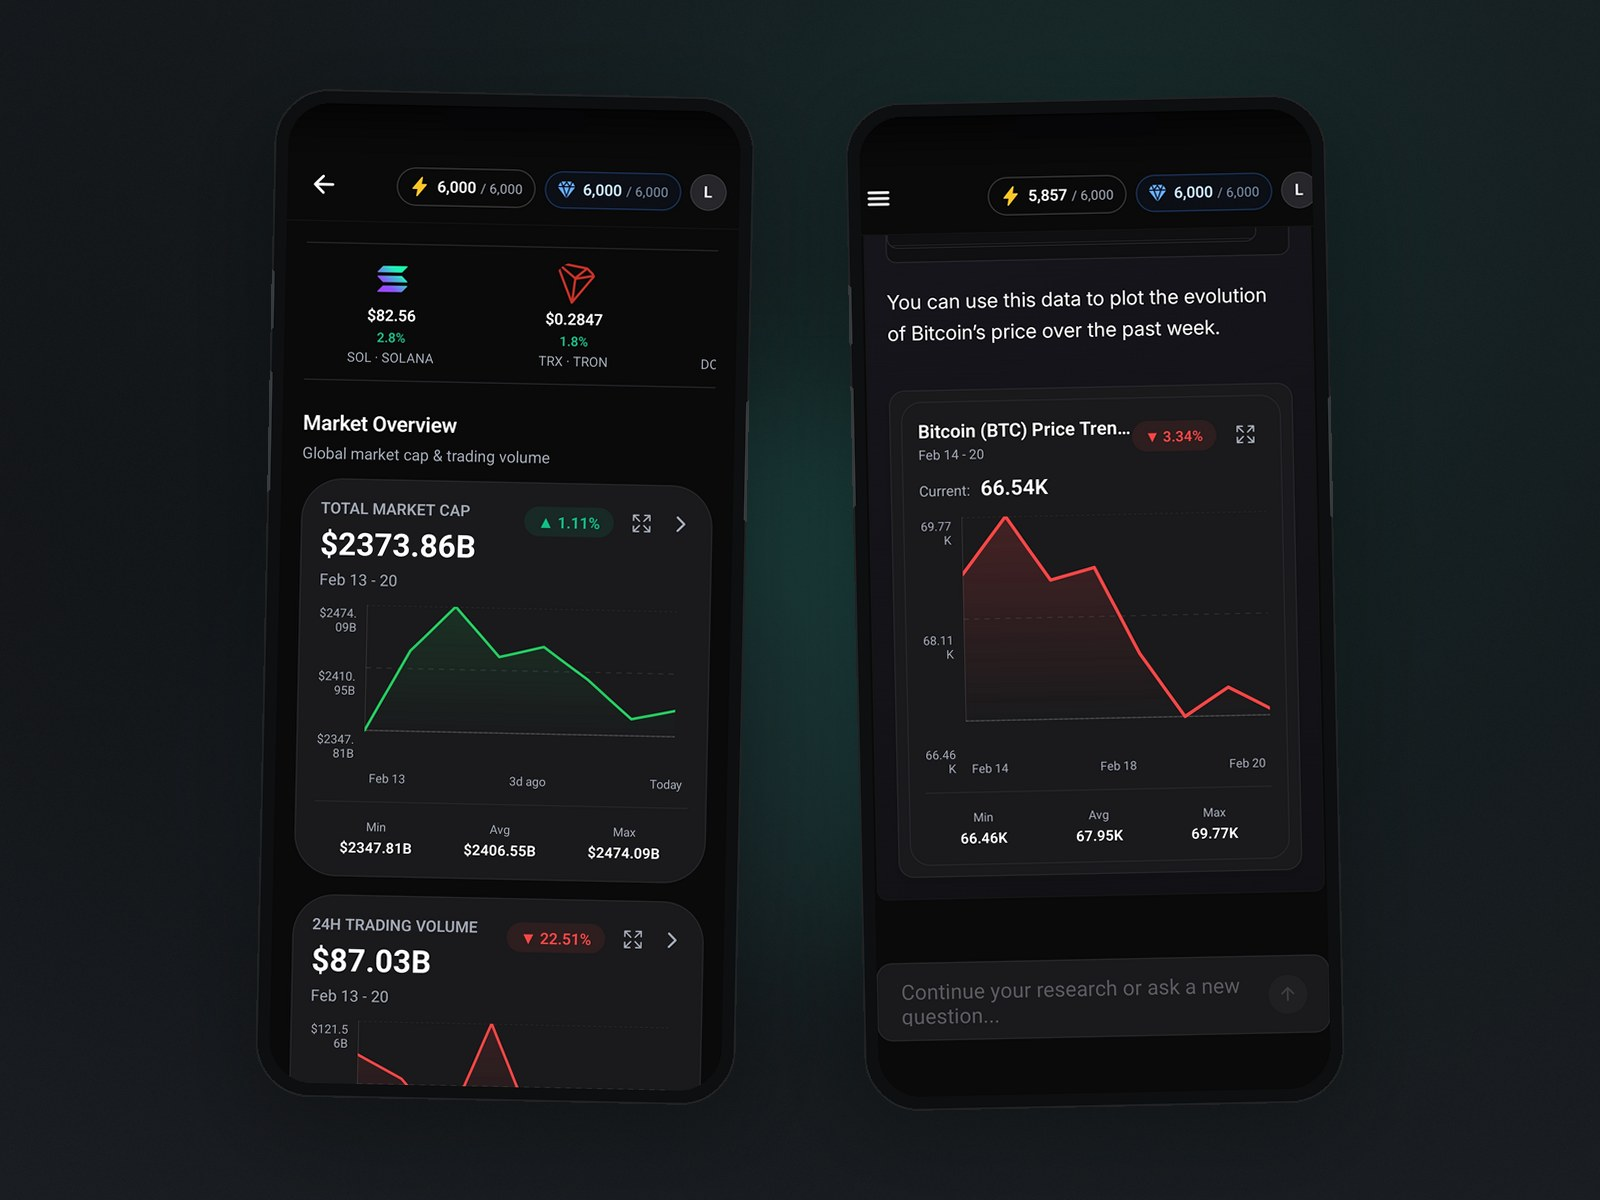
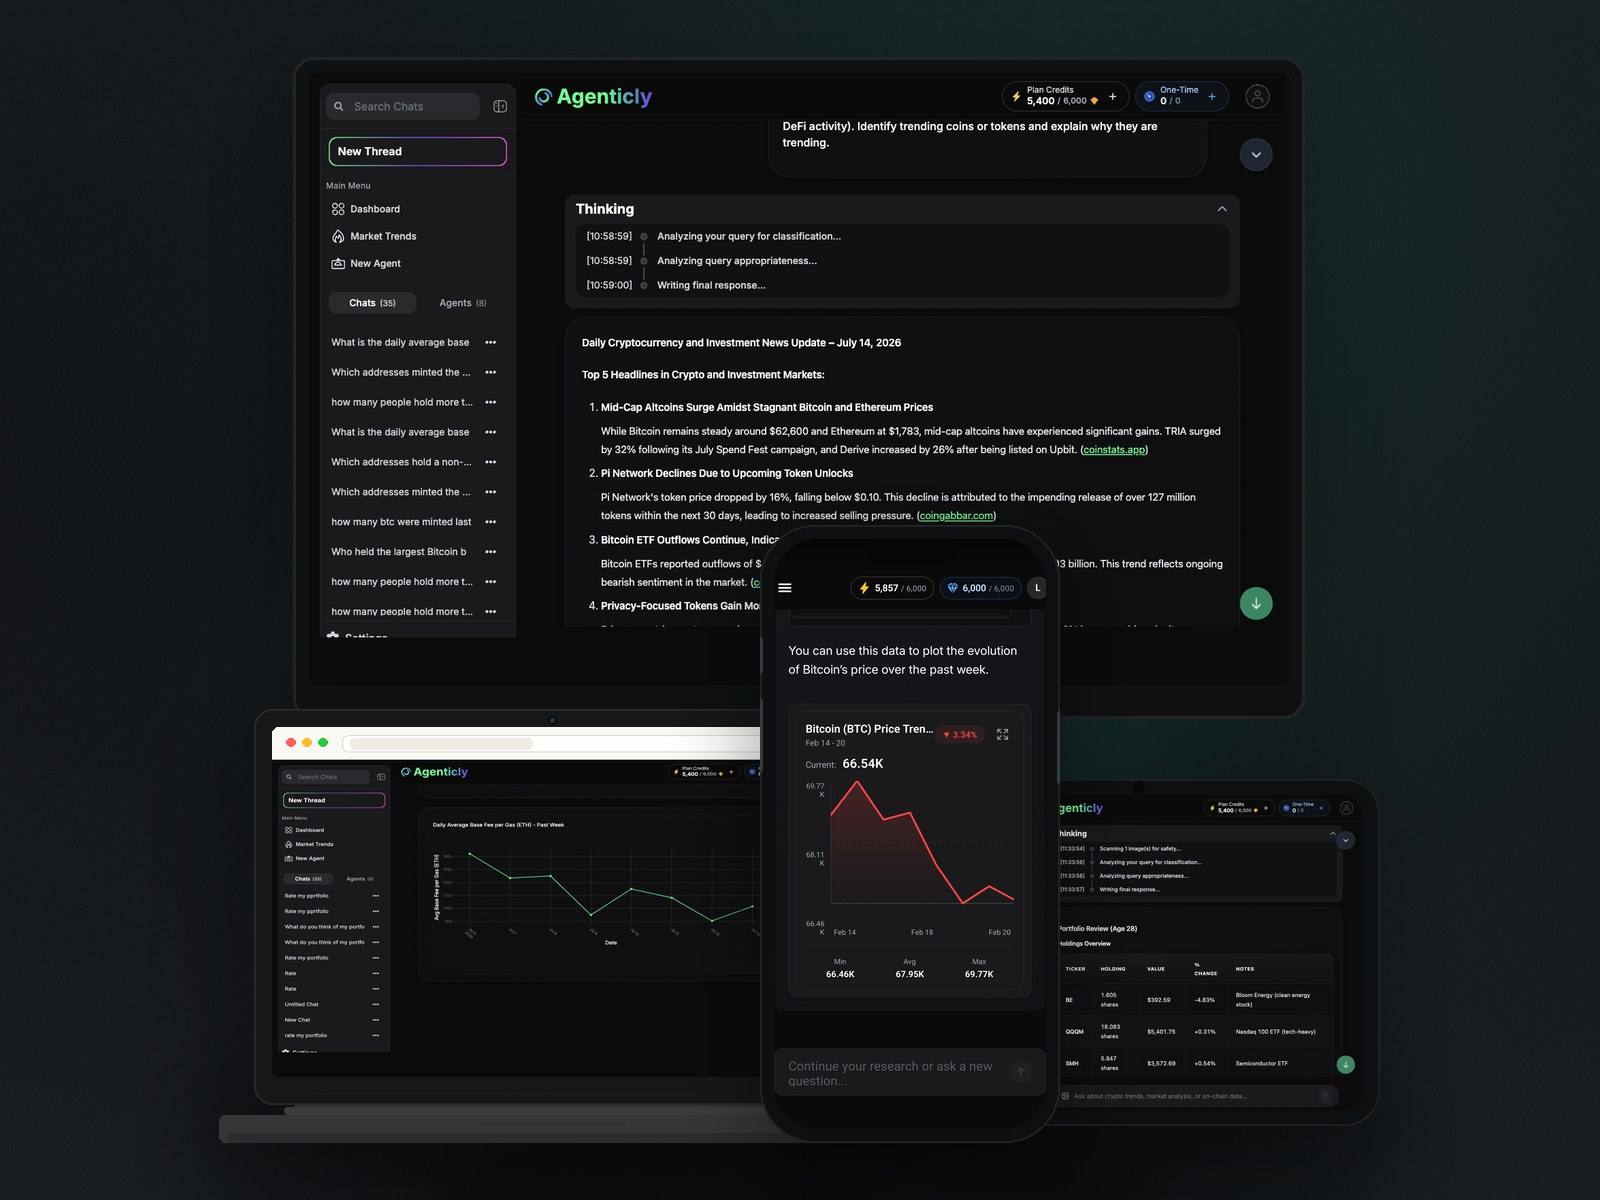
Refresh Agenticly mockups and correct role, payments, and store stats.
Replace the mobile-heavy plates with a multi-device hero (web + mobile), and update copy to reflect frontend + Stripe/RevenueCat work on a team product with live Play Store metrics.

diff --git a/lib/data/projects.ts b/lib/data/projects.ts
@@ -30,24 +30,26 @@ export const projects: Project[] = [
     title: "Agenticly",
     tagline: "Ask crypto and markets in plain English — analytics, charts, insights.",
     description:
-      "Solo-shipped product: Expo mobile + React web against Firebase and a FastAPI/LangGraph research backend. Natural-language queries across crypto, on-chain, and stocks with streaming answers and charts — RevenueCat on mobile, Stripe on web, one entitlement model.",
+      "Frontend + payments for Agenticly’s Expo mobile and React web clients — NL research chat with streaming answers and charts across crypto, on-chain, and stocks. Team product; I owned the phone/web UI and subscription flows (RevenueCat on mobile, Stripe on web) into one entitlement model.",
     category: "AI",
     stack: ["React Native", "Expo", "React", "Firebase", "FastAPI", "LangGraph", "RevenueCat", "Stripe"],
     metrics: [
-      "Live on Play Store + web",
-      "Mobile + web subscriptions",
-      "Built and shipped solo",
+      "10K+ Play Store downloads",
+      "4.8★ on Google Play",
+      "iOS + Android + web live",
     ],
     status: "Live",
     featured: true,
     links: {
       playStore: "https://play.google.com/store/apps/details?id=computer.star.agenticly",
+      appStore: "https://apps.apple.com/us/app/agenticly-stock-crypto-ai/id6760048191",
       web: "https://agenticly.app",
     },
     images: [
       "/images/projects/agenticly/hero.jpg",
       "/images/projects/agenticly/detail-1.jpg",
       "/images/projects/agenticly/detail-2.jpg",
+      "/images/projects/agenticly/detail-3.jpg",
     ],
     year: "2024–present",
   },

diff --git a/scripts/generate-mockups.py b/scripts/generate-mockups.py
@@ -622,6 +622,210 @@ def laptop_frame(screenshot: Image.Image, screen_w: int = 1100) -> Image.Image:
     return device
 
 
+def monitor_frame(screenshot: Image.Image, screen_w: int = 900) -> Image.Image:
+    """Desktop monitor (16:10 screen) with slim bezel, neck and base."""
+    shot = ensure_rgba(screenshot)
+    target_h = int(screen_w * 0.625)  # 16:10
+    shot = fit_web_for_laptop(shot, screen_w, target_h, mode="width")
+
+    bezel = 16
+    chin = 34
+    panel_w = shot.width + bezel * 2
+    panel_h = shot.height + bezel + chin
+    panel_r = 20
+
+    neck_w = int(panel_w * 0.10)
+    neck_h = int(panel_h * 0.11)
+    base_w = int(panel_w * 0.40)
+    base_h = 20
+
+    total_w = panel_w
+    total_h = panel_h + neck_h + base_h
+    device = Image.new("RGBA", (total_w, total_h), (0, 0, 0, 0))
+    draw = ImageDraw.Draw(device)
+
+    # Panel shell
+    draw.rounded_rectangle((0, 0, panel_w - 1, panel_h - 1), radius=panel_r, fill=(34, 36, 39, 255))
+    draw.rounded_rectangle((3, 3, panel_w - 4, panel_h - 4), radius=panel_r - 2, fill=(16, 17, 19, 255))
+
+    # Screen
+    screen = Image.new("RGBA", shot.size, (0, 0, 0, 0))
+    screen.paste(shot, (0, 0))
+    screen.putalpha(rounded_mask(shot.size, 6))
+    device.paste(screen, (bezel, bezel), screen)
+
+    # Chin logo dot
+    cx = panel_w // 2
+    cy = panel_h - chin // 2
+    draw.ellipse((cx - 4, cy - 4, cx + 4, cy + 4), fill=(70, 74, 80, 255))
+
+    # Neck
+    nx = (total_w - neck_w) // 2
+    ny = panel_h
+    draw.rectangle((nx, ny, nx + neck_w, ny + neck_h), fill=(48, 50, 54, 255))
+    draw.rectangle((nx + 3, ny, nx + neck_w - 3, ny + neck_h), fill=(58, 61, 66, 255))
+
+    # Base
+    bx = (total_w - base_w) // 2
+    by = panel_h + neck_h
+    draw.rounded_rectangle((bx, by, bx + base_w, by + base_h - 1), radius=8, fill=(56, 59, 63, 255))
+    draw.rounded_rectangle(
+        (bx + 6, by + base_h - 8, bx + base_w - 6, by + base_h - 1), radius=4, fill=(44, 46, 50, 255)
+    )
+    return device
+
+
+def tablet_frame(screenshot: Image.Image, screen_w: int = 460) -> Image.Image:
+    """Tablet (iPad-style) — uniform bezel, rounded corners, front camera dot.
+
+    Keeps the screenshot's own aspect ratio (no distortion); just scales to
+    screen_w and wraps it in a slim modern bezel.
+    """
+    shot = ensure_rgba(screenshot)
+    scale = screen_w / shot.width
+    shot = shot.resize(
+        (screen_w, max(1, int(shot.height * scale))), Image.Resampling.LANCZOS
+    )
+
+    bezel = max(16, int(screen_w * 0.035))
+    radius = max(34, int(screen_w * 0.075))
+    screen_r = max(20, radius - bezel + 2)
+    w = shot.width + bezel * 2
+    h = shot.height + bezel * 2
+    device = Image.new("RGBA", (w, h), (0, 0, 0, 0))
+    draw = ImageDraw.Draw(device)
+
+    draw.rounded_rectangle((0, 0, w - 1, h - 1), radius=radius, fill=(30, 32, 35, 255))
+    draw.rounded_rectangle((2, 2, w - 3, h - 3), radius=radius - 2, fill=(14, 15, 17, 255))
+
+    screen = Image.new("RGBA", shot.size, (0, 0, 0, 0))
+    screen.paste(shot, (0, 0))
+    screen.putalpha(rounded_mask(shot.size, screen_r))
+    device.paste(screen, (bezel, bezel), screen)
+
+    # Front camera — centered on the top bezel (landscape → long edge)
+    cam = 6
+    draw.ellipse((w // 2 - cam, bezel // 2 - cam, w // 2 + cam, bezel // 2 + cam), fill=(8, 8, 10, 255))
+    return device
+
+
+def compose_device_family(
+    monitor_shot: Image.Image,
+    laptop_shot: Image.Image,
+    tablet_shot: Image.Image,
+    phone_shot: Image.Image,
+    canvas: tuple[int, int] = (1600, 1200),
+    tint: tuple[int, int, int] = ACCENT,
+    studio: bool = True,
+    phone_status_fill: tuple[int, int, int] | None = None,
+    clean_notifications: bool = True,
+) -> Image.Image:
+    """Responsive family hero: monitor (back) + laptop + tablet + phone (front).
+
+    Devices form a tight, overlapping cluster sitting on a common baseline so
+    the set reads as one product across every screen. A soft elliptical floor
+    shadow grounds the whole group.
+    """
+    margin = 44
+
+    def build(scale: float):
+        monitor = monitor_frame(monitor_shot, screen_w=int(980 * scale))
+        laptop = browser_in_laptop(laptop_shot, screen_w=int(560 * scale))
+        tablet = tablet_frame(tablet_shot, screen_w=int(452 * scale))
+        phone = phone_frame(
+            phone_shot,
+            max_h=int(590 * scale),
+            clean_notifications=clean_notifications,
+            status_fill=phone_status_fill,
+        )
+        # Self-contained cluster in local coordinates (origin at 0,0).
+        # Front row (laptop | phone | tablet) overlaps the monitor's lower ~38%
+        # and shares one baseline; the phone steps forward as the foreground.
+        overlap = int(monitor.height * 0.38)
+        row_top = monitor.height - overlap
+        baseline = row_top + phone.height  # phone is tallest → defines the floor
+
+        lx = 0
+        ly = baseline - laptop.height
+        # Phone overlaps the laptop's right third and sits lowest (foreground).
+        px = lx + laptop.width - int(phone.width * 0.42)
+        py = baseline - phone.height
+        # Tablet tucks behind the phone's right side, slightly raised.
+        tx = px + phone.width - int(tablet.width * 0.34)
+        ty = baseline - tablet.height - int(tablet.height * 0.05)
+
+        cluster_w = tx + tablet.width
+        mx = (cluster_w - monitor.width) // 2
+        my = 0
+        placements = [
+            (monitor, mx, my),
+            (laptop, lx, ly),
+            (tablet, tx, ty),
+            (phone, px, py),
+        ]
+        return placements, baseline
+
+    scale = 1.0
+    placements, baseline = build(scale)
+    for _ in range(14):
+        xs = [p[1] for p in placements] + [p[1] + p[0].width for p in placements]
+        ys = [p[2] for p in placements] + [p[2] + p[0].height for p in placements]
+        need_w = max(xs) - min(xs)
+        need_h = max(ys) - min(ys)
+        fit = min(
+            (canvas[0] - margin * 2) / max(1, need_w),
+            (canvas[1] - margin * 2) / max(1, need_h),
+            1.0,
+        )
+        if fit >= 0.995:
+            break
+        scale *= fit * 0.98
+        placements, baseline = build(scale)
+
+    # Center the whole cluster
+    xs = [p[1] for p in placements] + [p[1] + p[0].width for p in placements]
+    ys = [p[2] for p in placements] + [p[2] + p[0].height for p in placements]
+    shift_x = (canvas[0] - (max(xs) - min(xs))) // 2 - min(xs)
+    shift_y = (canvas[1] - (max(ys) - min(ys))) // 2 - min(ys)
+
+    bg = make_bg(canvas, tint, studio, strength=0.2 if studio else 0.14, cy_shift=30)
+
+    # Grounding floor shadow — soft wide ellipse under the front row so the
+    # devices feel placed on a surface rather than floating.
+    floor_y = baseline + shift_y - 6
+    cluster_l = min(p[1] for p in placements[1:]) + shift_x
+    cluster_r = max(p[1] + p[0].width for p in placements[1:]) + shift_x
+    cx = (cluster_l + cluster_r) // 2
+    half_w = int((cluster_r - cluster_l) * 0.52)
+    ell_h = int(150 * scale)
+    floor = Image.new("RGBA", canvas, (0, 0, 0, 0))
+    ImageDraw.Draw(floor).ellipse(
+        (cx - half_w, floor_y - ell_h // 2, cx + half_w, floor_y + ell_h // 2),
+        fill=(0, 0, 0, 150 if studio else 110),
+    )
+    floor = floor.filter(ImageFilter.GaussianBlur(int(46 * scale)))
+    bg = Image.alpha_composite(bg, floor)
+
+    # Back-to-front: monitor, laptop, tablet, phone
+    order = [
+        (placements[0], 18, 44, 105),  # monitor
+        (placements[1], 16, 38, 92),   # laptop
+        (placements[2], 40, 34, 96),   # tablet
+        (placements[3], 48, 34, 120),  # phone (front, strongest shadow)
+    ]
+    for (device, dx, dy), radius, blur, opacity in order:
+        paste_with_shadow(
+            bg,
+            device,
+            (dx + shift_x, dy + shift_y),
+            radius=radius,
+            blur=blur,
+            opacity=opacity,
+            studio=studio,
+        )
+    return bg.convert("RGB")
+
+
 def fit_web_for_laptop(
     shot: Image.Image,
     screen_w: int,
@@ -1489,11 +1693,17 @@ def build_catchat() -> None:
 
 
 def build_agenticly() -> None:
-    """Agenticly — populated mobile screens + marketing web (agenticly.app)."""
+    """Agenticly — real product UI: web app (agenticly-prod) + mobile app.
+
+    Web plates use live desktop captures in .tmp-shots/agenticly/web-new/
+    (1440×900 → exact 16:10 laptop fit). Alternates web + mobile so the set
+    reads as cross-platform, not mobile-only.
+    """
     print("Agenticly")
     dest = OUT / "agenticly"
     tmp = ROOT / ".tmp-shots" / "agenticly"
     ss = SHOTS / "Agenticly"
+    web_dir = tmp / "web-new"
 
     def load(name: str) -> Image.Image:
         for base in (tmp, ss):
@@ -1505,43 +1715,62 @@ def build_agenticly() -> None:
                     )
         raise FileNotFoundError(name)
 
-    markets = load("02-chat")  # market overview + charts
+    def web(name: str) -> Image.Image:
+        return Image.open(web_dir / name)
+
+    # Mobile app screens
+    markets = load("02-chat")       # market overview + charts
     trending = load("03-charts")
-    movers = load("04-analysis")
     research = load("06-detail-a")  # AI chat + workflow
     chart_chat = load("07-detail-b")  # BTC chart in chat
+
+    # Web app screens (real product, captured from agenticly-prod)
+    web_home = web("web-hero.png")           # dashboard / research assistant home
+    web_chart = web("web-chart.png")         # AI chat with a rendered line chart (on-chain data)
+    web_report = web("web-market-report.png")  # daily market report: headlines + gainers/losers
+    web_portfolio = web("web-tablet-portfolio.png")  # portfolio review + holdings table
+    web_agent_detail = web("web-agent-detail.png")  # scheduled agent detail + runs
+
     tint = (45, 180, 160)
     plates = [
-        # Hero — live markets + chart answer (no empty chat)
-        compose_dual_phones(
-            markets,
-            chart_chat,
+        # Hero — one product across every screen: monitor + laptop + tablet + phone.
+        # Data-viz forward: daily market report (monitor), chart chat (laptop),
+        # portfolio analysis (tablet), price chart (phone).
+        compose_device_family(
+            web_report,      # desktop monitor — daily market trends: headlines, gainers/losers
+            web_chart,       # laptop — AI chat with a rendered line chart
+            web_portfolio,   # tablet — portfolio review + holdings table
+            chart_chat,      # phone — mobile app BTC price-trend chart
             tint=tint,
             studio=True,
-            gap=88,
-            angle=1.2,
-            max_h=980,
-            margin=48,
             clean_notifications=False,
         ),
-        compose_dual_phones(
-            trending,
-            movers,
-            tint=tint,
-            studio=True,
-            gap=100,
-            angle=1.3,
-            max_h=920,
-            margin=52,
-            clean_notifications=False,
-        ),
-        # Web product + mobile research
+        # AI research cross-platform — web dashboard + mobile companion
         compose_laptop_phone(
-            Image.open(tmp / "web-home.png"),
+            web_home,
             research,
             tint=tint,
             studio=True,
-            phone_side="right",
+            phone_side="left",
+        ),
+        # Web-only Scheduled Agents — real agent detail + upcoming runs
+        compose_plate(
+            browser_in_laptop(web_agent_detail, screen_w=1280),
+            tint=tint,
+            studio=True,
+            offset_y=6,
+        ),
+        # Mobile app presence — live markets + trending
+        compose_dual_phones(
+            markets,
+            trending,
+            tint=tint,
+            studio=True,
+            gap=96,
+            angle=1.3,
+            max_h=940,
+            margin=52,
+            clean_notifications=False,
         ),
     ]
     save_set(dest, plates)